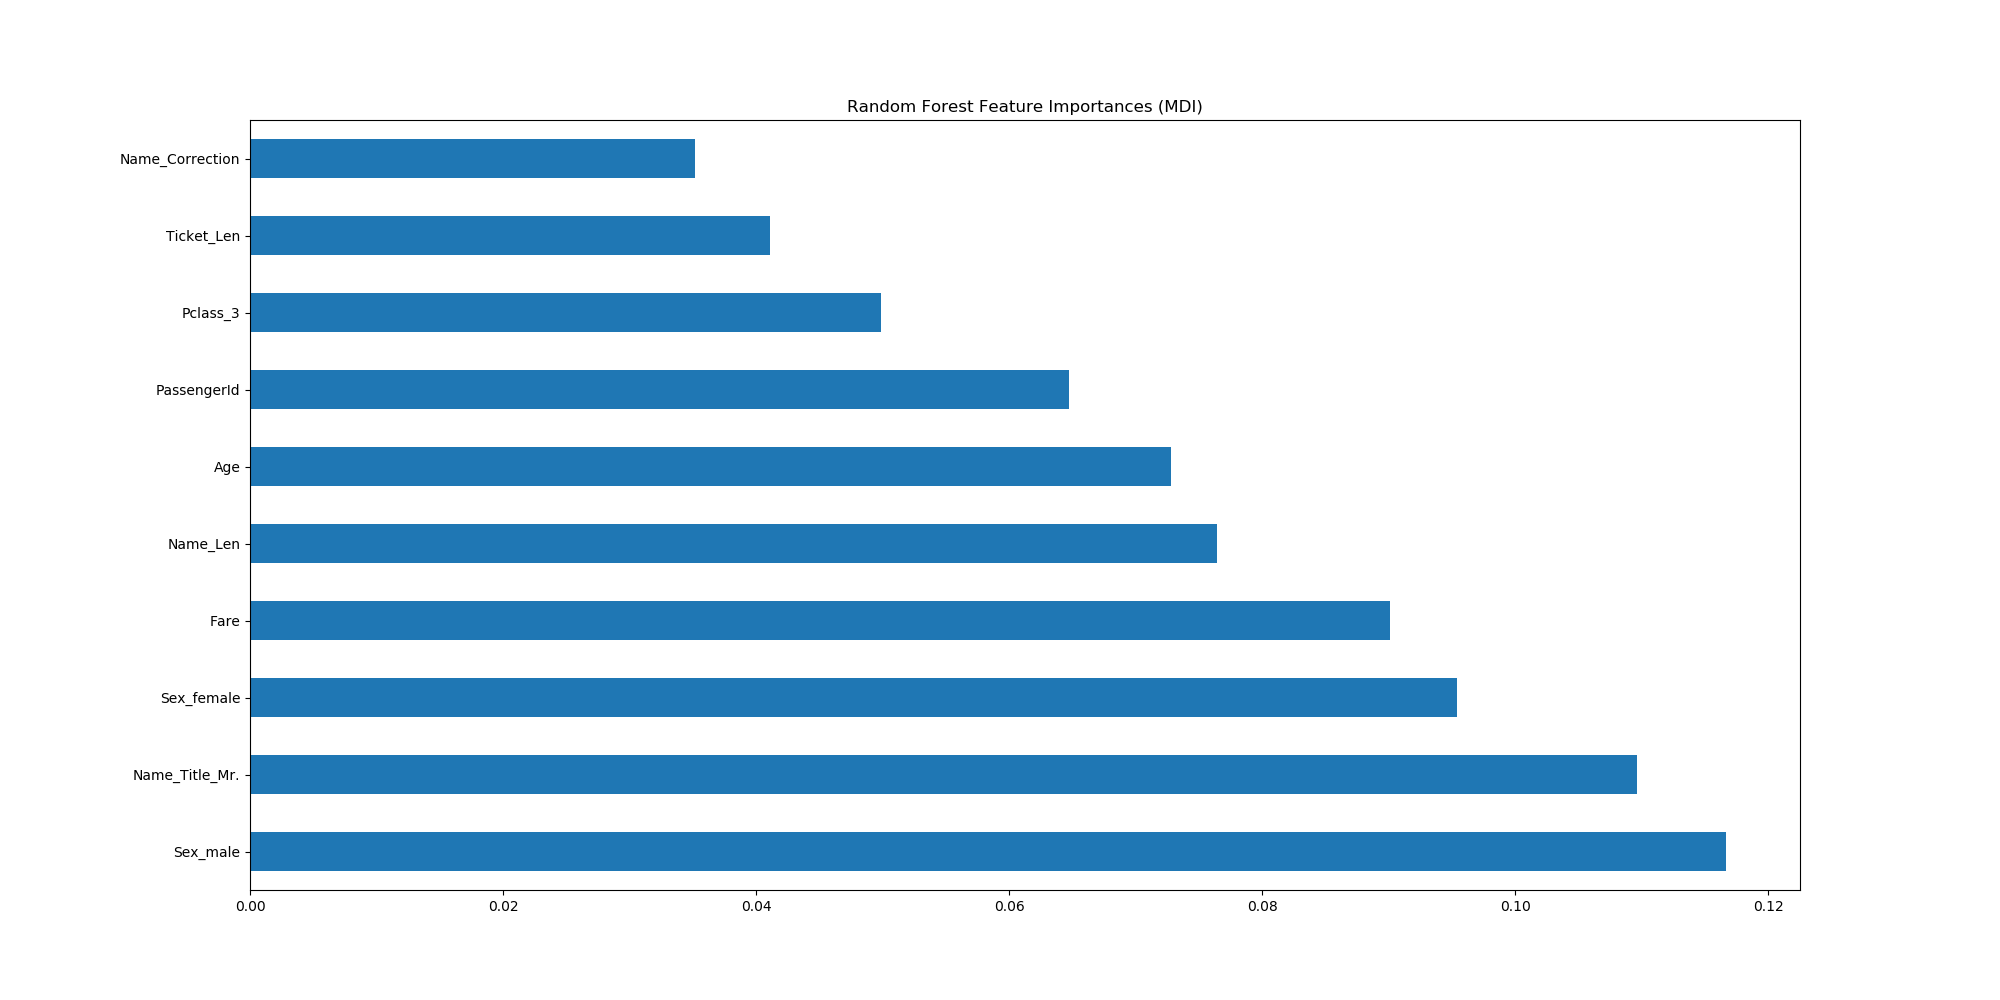
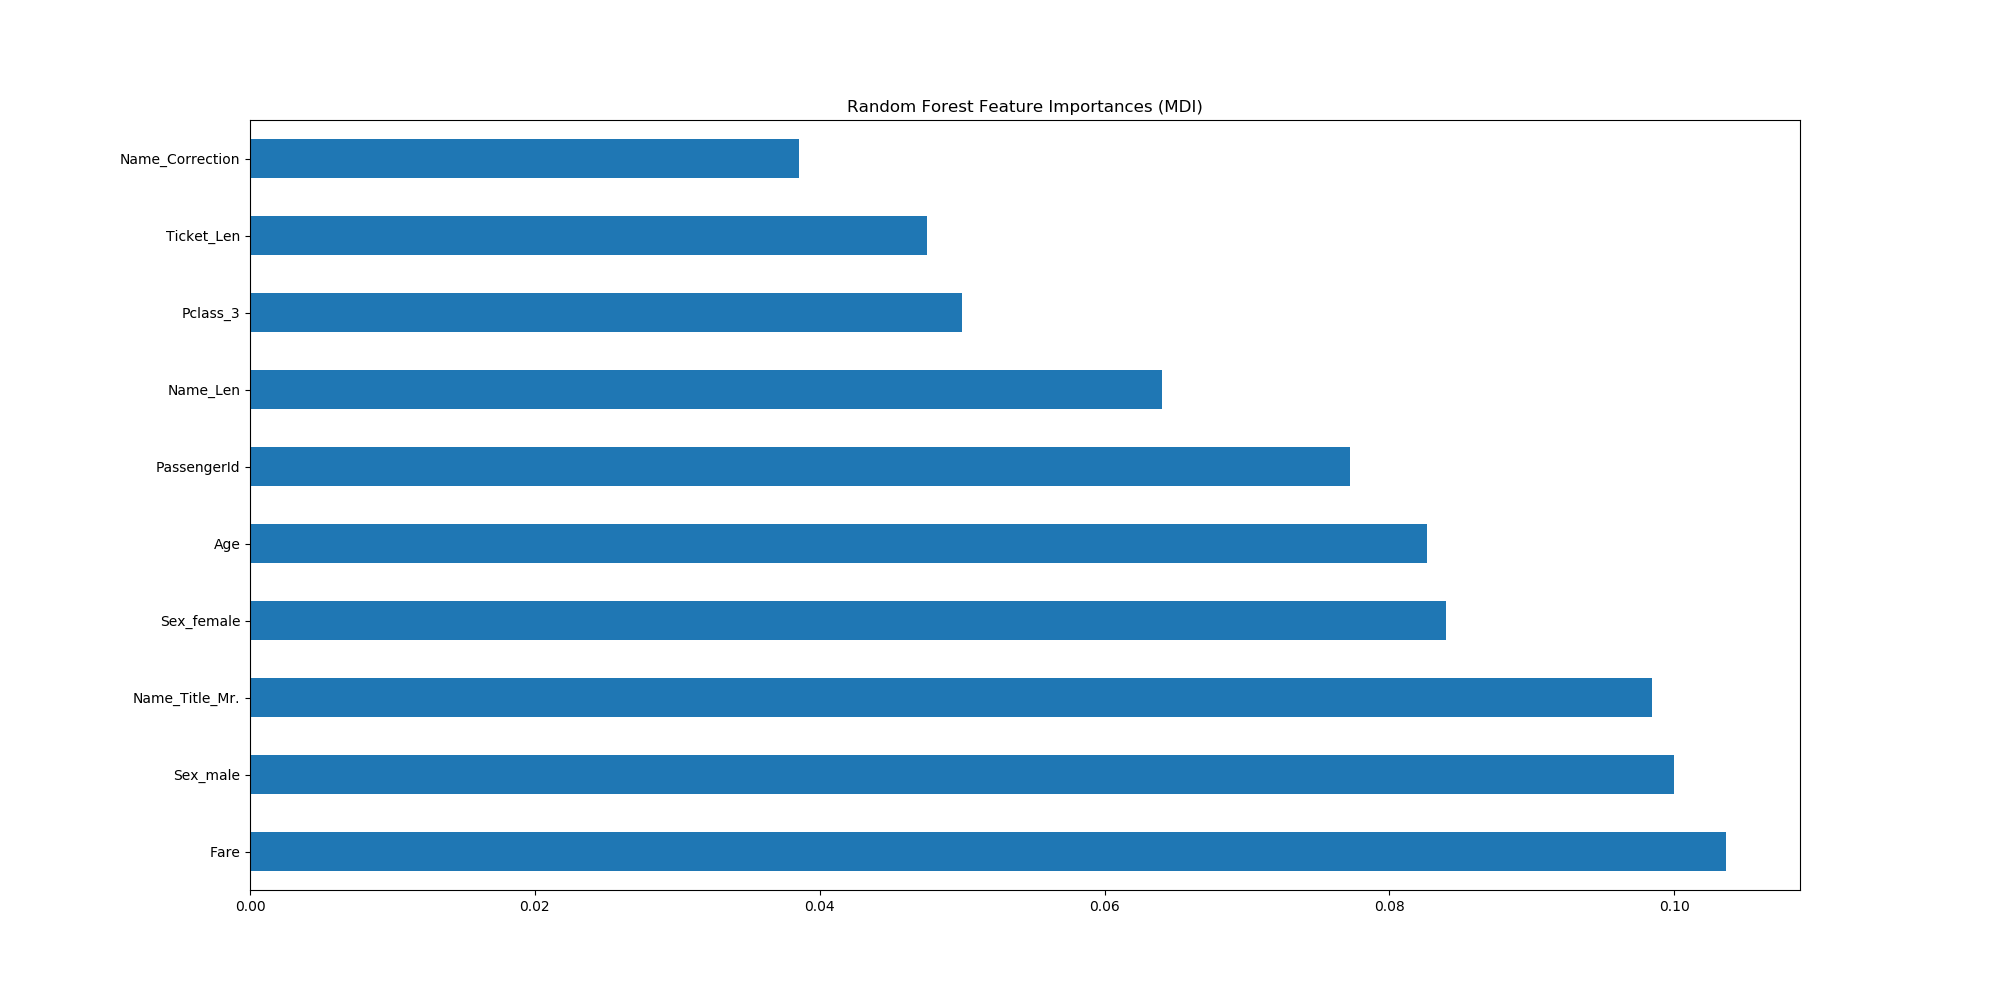
Code refactoring

diff --git a/feature_engineering.py b/feature_engineering.py
@@ -1,0 +1,77 @@
+import pandas as pd
+import numpy as np
+from sklearn.preprocessing import StandardScaler
+from sklearn.discriminant_analysis import LinearDiscriminantAnalysis as LDA
+
+
+
+def extractFromNames(train, test):
+    """  Extract title and length from name without the words in brackets. Add dummy for name with brackets. """
+    for df in [train, test]:
+        df['Name_Len'] = df['Name'].str.replace(r"\(.+\)", "").apply(lambda x: len(x))
+        df['Name_Title'] = df['Name'].apply(lambda x: x.split(',')[1]).apply(lambda x: x.split()[0])
+        df['Name_Correction'] = df['Name'].str.contains(r'\(.+\)', regex=True).astype(int)
+        del df['Name']
+    return train, test
+
+
+def imputeAge(train, test):
+    """ Fill NaN for age with the respective Name_Title and Pclass mean. """
+    for df in [train, test]:
+        df['Age_Null_Flag'] = df['Age'].apply(lambda x: 1 if pd.isnull(x) else 0)
+    train['mean'] = train.groupby(['Name_Title', 'Pclass'])['Age'].transform('mean')
+    train['Age'] = train['Age'].fillna(train['mean'])
+    merged_data = test.merge(train, on=['Name_Title', 'Pclass'], how='left').drop_duplicates(['PassengerId_x'])
+    test['Age'] = np.where(test['Age'].isnull(), merged_data['mean'], test['Age'])
+    test['Age'] = test['Age'].fillna(test['Age'].mean())
+    del train['mean']
+    return train, test
+
+
+def extractCabinLetter(train, test):
+    """ Extract first letter of cabin. """
+    for df in [train, test]:
+        df['Cabin_Letter'] = df['Cabin'].apply(lambda x: str(x)[0])
+        del df['Cabin']
+    return train, test
+
+
+def imputeEmbarked(train, test):
+    """ Fill NaN for Embarked by 'S'. """
+    for df in [train, test]:
+        df['Embarked'] = df['Embarked'].fillna('S')
+    return train, test
+
+
+def createDummies(train, test, columns = ['Pclass', 'Sex', 'Embarked', 'Cabin_Letter', 'Name_Title']):
+    """ Convert specified columns into dummy variables.
+
+    Parmeters:
+        train(pandas.DataFrame): Training data
+        test(pandas.DataFrame): Test data
+        columns(list): Set of columns to be converted
+
+    Returns:
+        train(pandas.DataFrame): Training data containing dummies
+        test(pandas.DataFrame): Test data containing dummies
+    """
+    for column in columns:
+        train[column] = train[column].apply(lambda x: str(x))
+        test[column] = test[column].apply(lambda x: str(x))
+        good_cols = [column + '_' + col for col in train[column].unique() if col in test[column].unique()]
+        train = pd.concat((train, pd.get_dummies(train[column], prefix = column)[good_cols]), axis = 1)
+        test = pd.concat((test, pd.get_dummies(test[column], prefix = column)[good_cols]), axis = 1)
+        del train[column]
+        del test[column]
+    return train, test
+
+
+def extractFamilySize(train, test):
+    """ Categorize the size of the family into the three categories. """
+    for df in [train, test]:
+        df['Fam_Size'] = np.where((df['SibSp'] + df['Parch']) == 0 , 'Solo',
+                           np.where((df['SibSp'] + df['Parch']) <= 3,'Nuclear', 'Big'))
+        del df['SibSp']
+        del df['Parch']
+    return train, test
+

diff --git a/random_forest.py b/random_forest.py
@@ -3,7 +3,7 @@ import pandas as pd
 import numpy as np
 import seaborn as sn
 from sklearn.ensemble import RandomForestClassifier
-import feature_process_helper
+import feature_engineering as fe
 from sklearn.model_selection import GridSearchCV
 import matplotlib.pyplot as plt
 from sklearn.model_selection import train_test_split
@@ -24,29 +24,30 @@ del X, y
 
 # Extract length and title of name
 print("Prepare data")
-X_train, X_test = feature_process_helper.names(X_train, X_test)
+X_train, X_test = fe.extractFromNames(X_train, X_test)
 
 # Replace missing age values with means grouped  by title and class
-X_train, X_test = feature_process_helper.age_impute(X_train, X_test)
+X_train, X_test = fe.imputeAge(X_train, X_test)
 
 # Take first letter of cabin
-X_train, X_test = feature_process_helper.cabin(X_train, X_test)
+X_train, X_test = fe.extractCabinLetter(X_train, X_test)
 
 # Fill missing values for embarked
-X_train, X_test = feature_process_helper.embarked_impute(X_train, X_test)
+X_train, X_test = fe.imputeEmbarked(X_train, X_test)
 
 # Determine family size
-X_train, X_test = feature_process_helper.fam_size(X_train, X_test)
+X_train, X_test = fe.extractFamilySize(X_train, X_test)
 
 # Extract ticket length
 X_train['Ticket_Len'] = X_train['Ticket'].apply(lambda x: len(x))
 X_test['Ticket_Len'] = X_test['Ticket'].apply(lambda x: len(x))
 
 # Create dummy variable for several columns
-X_train, X_test = feature_process_helper.dummies(X_train, X_test, columns = ['Pclass', 'Sex', 'Embarked',
-                                                                     'Cabin_Letter', 'Name_Title', 'Fam_Size'])
+X_train, X_test = fe.createDummies(X_train, X_test, columns = ['Pclass', 'Sex', 'Embarked', 'Cabin_Letter', 'Name_Title', 'Fam_Size'])
 
-X_train, X_test = feature_process_helper.drop(X_train, X_test, bye = ['Ticket'])
+# Delete unused columns
+X_train = X_train.drop(columns="Ticket")
+X_test = X_test.drop(columns="Ticket")
 
 # Tune hyper-parameters
 forest = RandomForestClassifier(max_features='auto',
@@ -55,7 +56,7 @@ forest = RandomForestClassifier(max_features='auto',
                                 n_jobs=-1)
 
 param_grid = { "criterion"   : ["gini", "entropy"],
-               "min_samples_leaf" : [1,5,10],
+               "min_samples_leaf" : [1, 5, 10],
                "min_samples_split" : [2, 4, 10, 12, 16],
                "n_estimators": [50, 100, 400, 700, 1000]}
 
@@ -66,7 +67,6 @@ param_search = GridSearchCV(estimator=forest,
                   n_jobs=-1)
 
 param_search = param_search.fit(X_train, y_train)
-
 
 print("Best Accuracy:", param_search.best_score_)
 print("Best Parameters:", param_search.best_params_)
